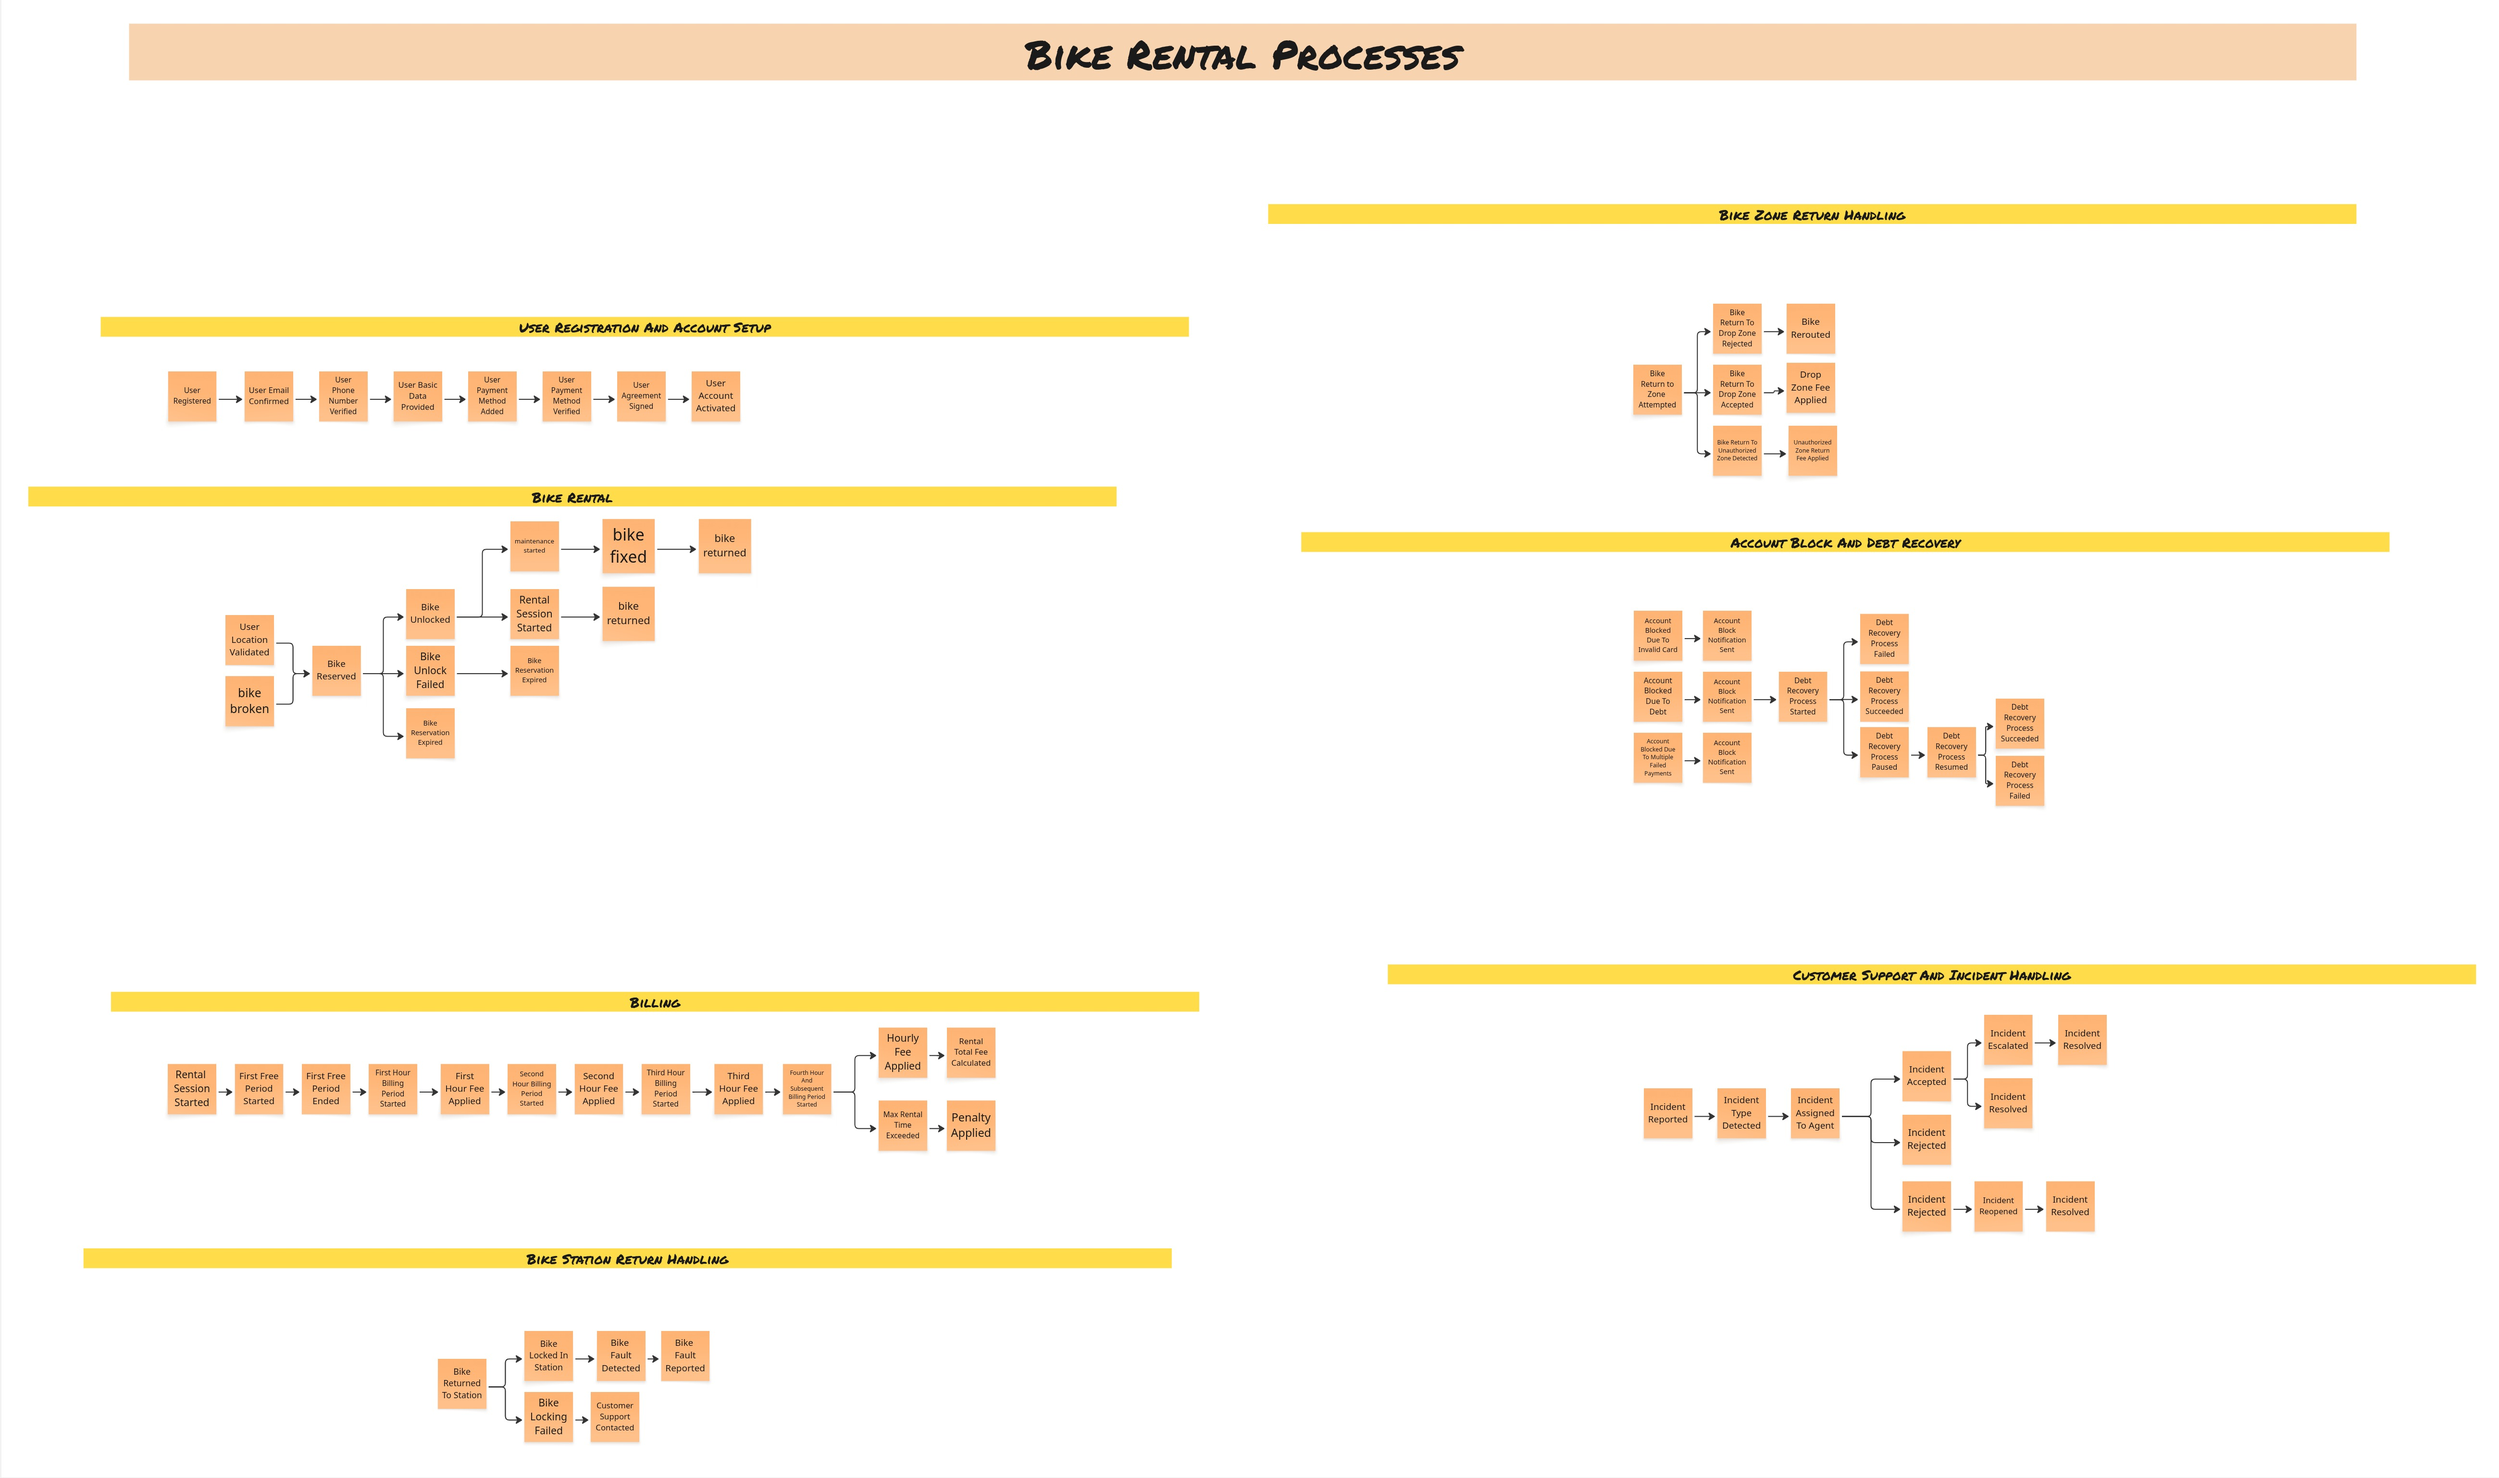
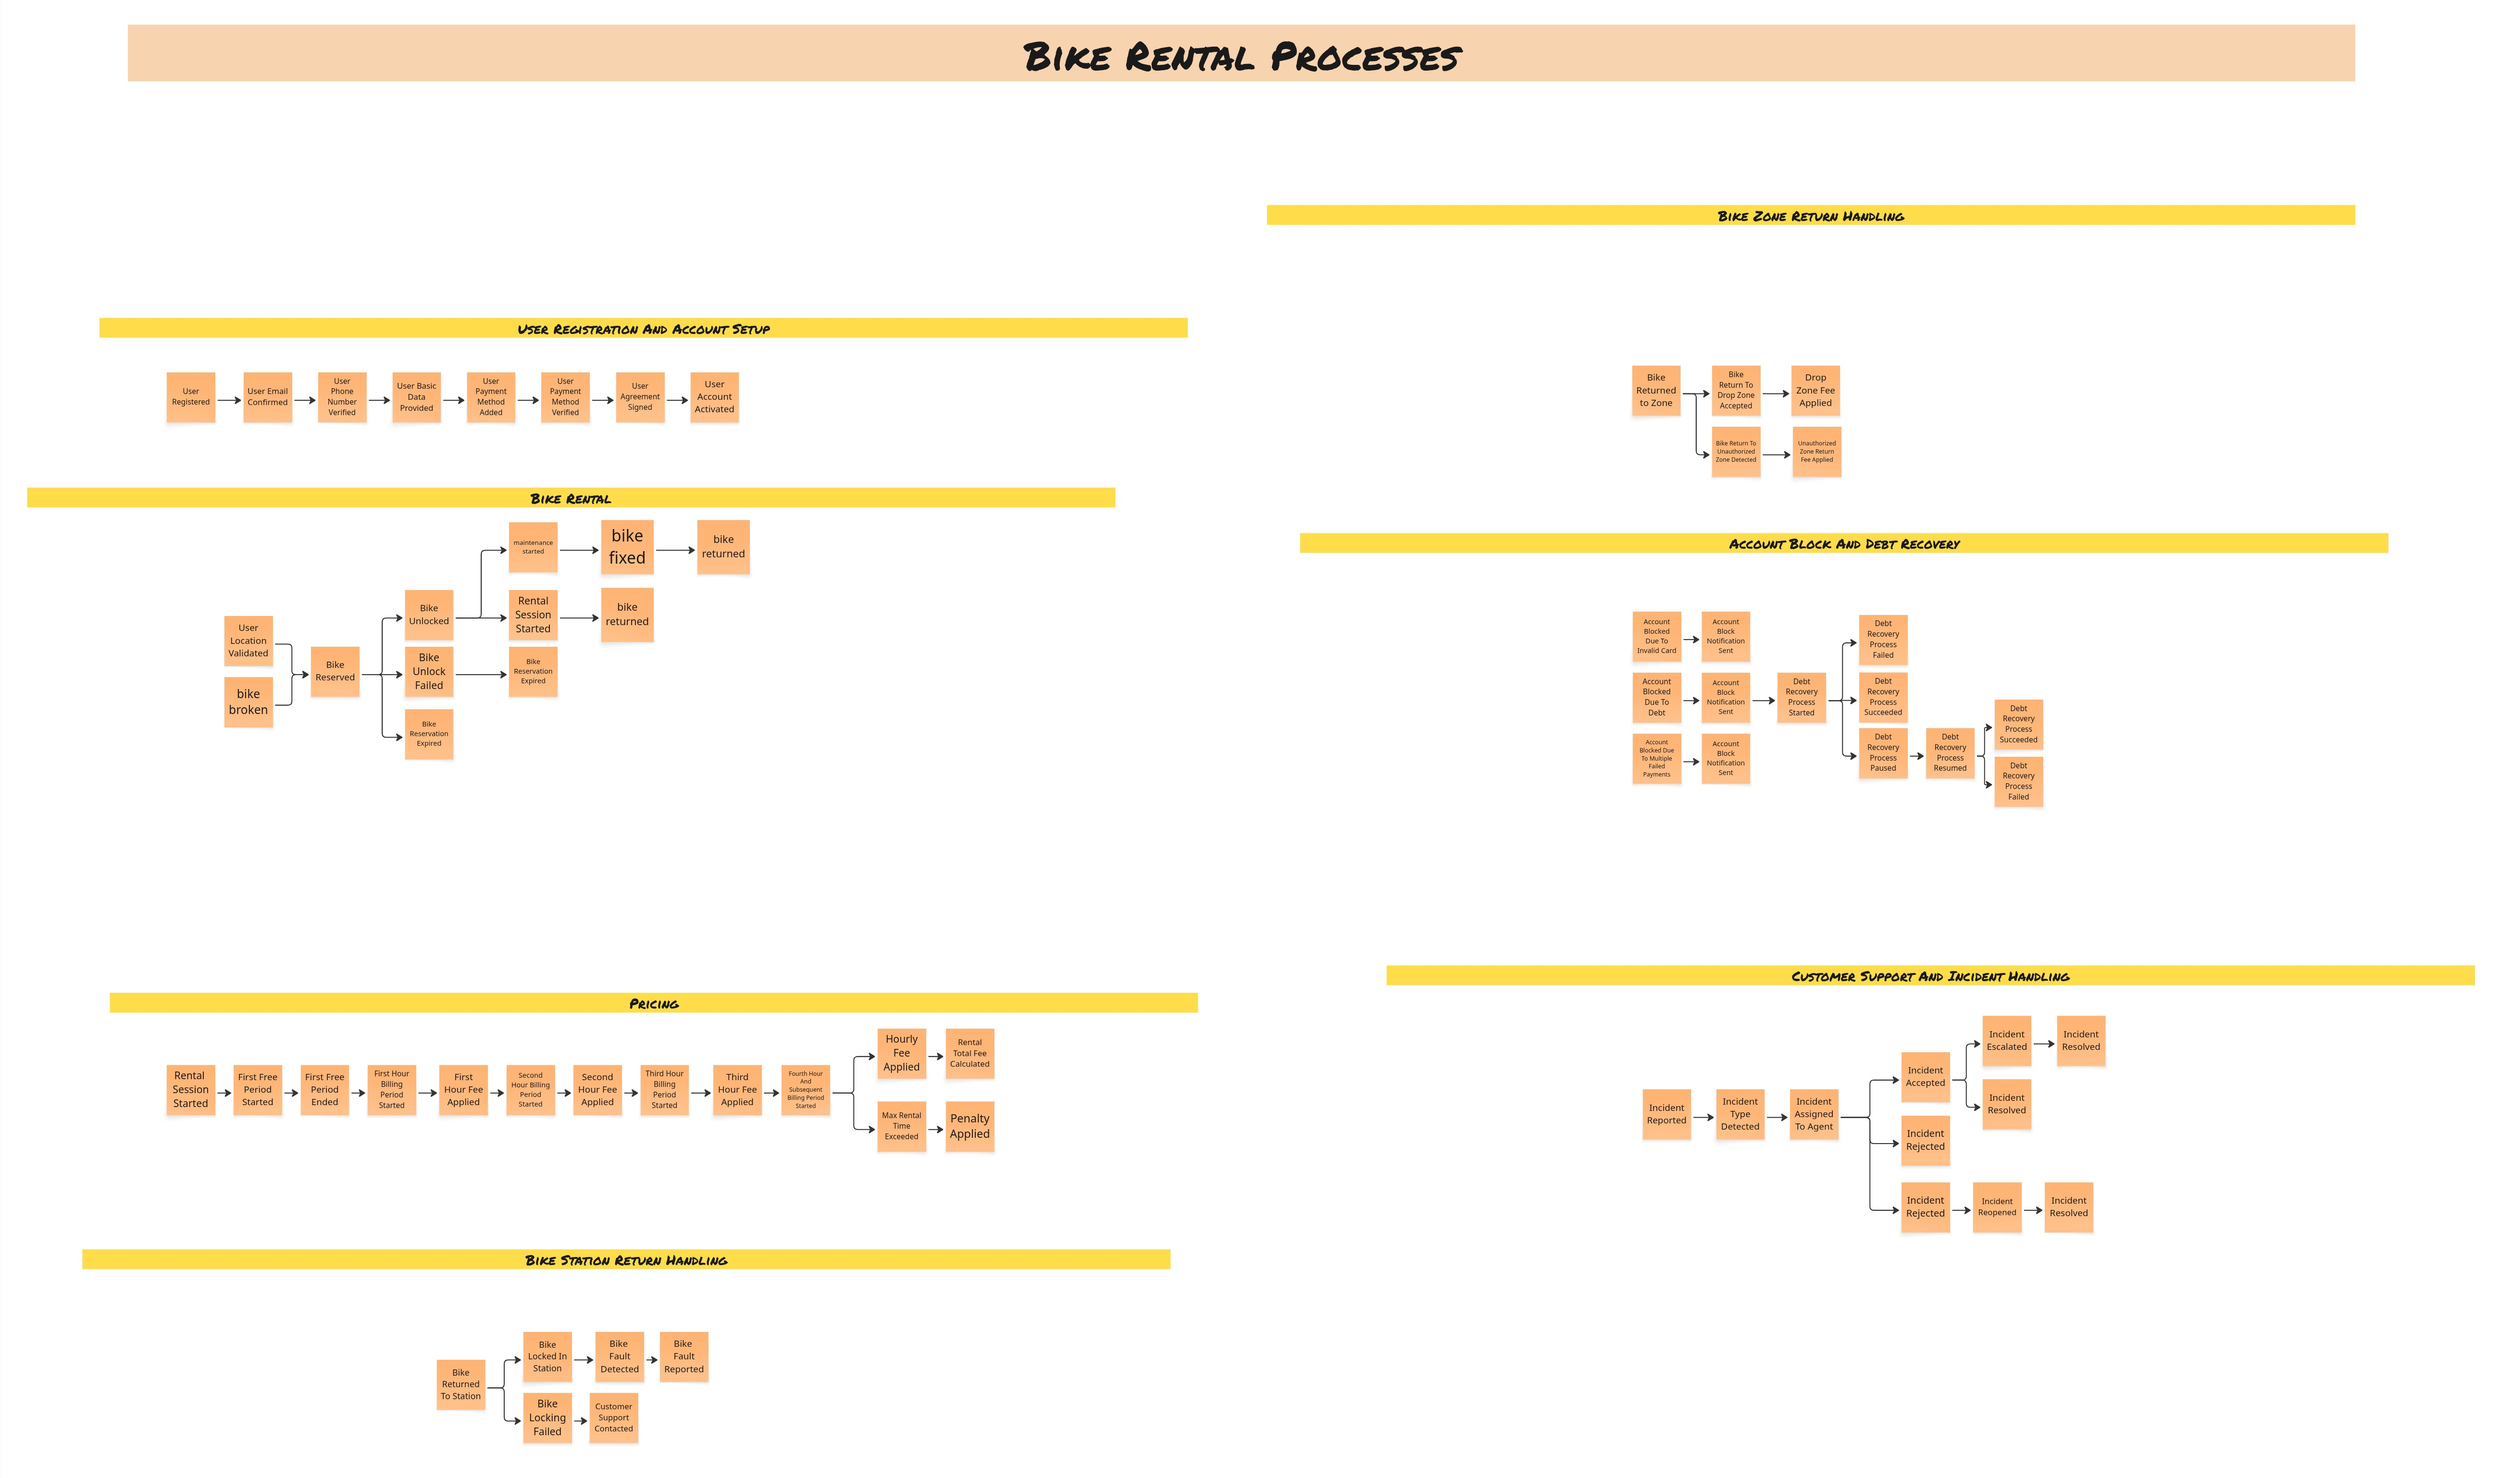
Update vision to allow returning bike anywhere

diff --git a/velocity/velocity-vision.md b/velocity/velocity-vision.md
@@ -149,12 +149,10 @@ The rider brings the bike back to an official **station**.
 
 VeloCity is not station-only. The city has approved certain **drop zones** where a bike may be left without a station.
 
-1. The rider **attempts to end the ride** at their current location.
-2. The system checks the location against the city's zone map.
-3. Three outcomes are possible:
-   - **Return accepted.** The bike is left in an approved drop zone. A **drop zone fee** is applied — small, but real, because free-floating returns cost the operator more to manage than station returns.
-   - **Return rejected.** The location is close to but not inside an approved drop zone. The rider is asked to **reroute** — move a short distance and try again.
-   - **Unauthorized zone detected.** The rider is trying to leave the bike outside the network entirely. The return is completed (we don't leave the rider stranded), but a much higher **unauthorized zone return fee** is applied. This is how pricing enforces the shape of the network without requiring physical infrastructure everywhere.
+1. The rider **ends the ride** at their current location. The ride always ends where the rider is — we never leave a rider stranded.
+2. The location is then checked against the city's zone map to decide what the rider pays:
+   - **Approved drop zone.** A **drop zone fee** is applied — small, but real, because free-floating returns cost the operator more to manage than station returns.
+   - **Unauthorized zone.** The bike was left outside the network entirely. A much higher **unauthorized zone return fee** is applied. This is how pricing enforces the shape of the network without requiring physical infrastructure everywhere.
 
 ---
 
@@ -241,7 +239,6 @@ When an incident is about a faulty bike (a fleet issue), the bike is marked as *
 | **Maximum Rental Time** | The upper limit beyond which a session is treated as a problem rather than a ride |
 | **Penalty** | An additional charge applied when a rider breaks a hard rule (e.g., exceeding maximum rental time) |
 | **Fault Report** | A record that a bike shows signs of damage or malfunction and makes it a broken bike until a technician fixes it |
-| **Reroute** | A prompt asking the rider to move a short distance because their current location does not qualify as a valid return spot |
 | **Account Block** | A state that prevents a rider from starting new rentals, triggered by invalid card, debt, or failed payment |
 | **Debt Recovery Process** | The business process that pursues an outstanding balance until it is paid, exhausted, or paused |
 | **Incident** | A rider-reported issue that must be routed, worked, and resolved by support |
